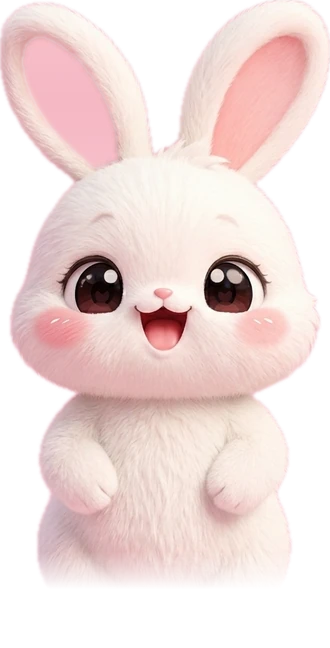
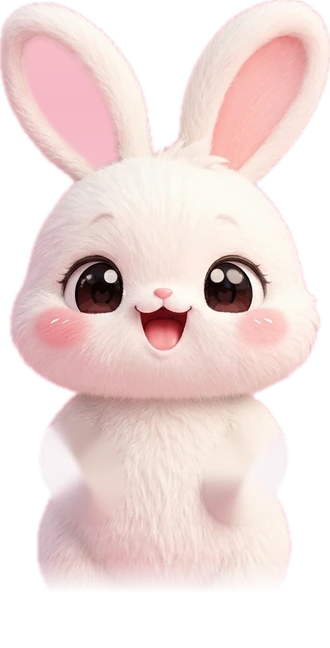
Zuffi walks like a real bunny: arms swing, feet step in turn, body waddles over the planted foot; calmer pace
Claude-Session: https://claude.ai/code/session_01Dfe3DJJKo39RQ8GJERCpN5

Changed region(s): [[0.1212, 0.6481, 0.3636, 0.8025], [0.6667, 0.7407, 0.7879, 0.8025], [0.6061, 0.7099, 0.6667, 0.7407]]

diff --git a/mac/Sources/App/ZuffiAvatar.swift b/mac/Sources/App/ZuffiAvatar.swift
@@ -109,7 +109,7 @@ final class ZuffiLook: ObservableObject {
 @MainActor
 final class ZuffiBodyArt {
     static let shared = ZuffiBodyArt()
-    let top: CGImage?, legL: CGImage?, legR: CGImage?, paw: CGImage?
+    let top: CGImage?, legL: CGImage?, legR: CGImage?, armL: CGImage?, armR: CGImage?, paw: CGImage?
     private init() {
         func load(_ n: String) -> CGImage? {
             guard let u = Bundle.main.resourceURL?.appendingPathComponent("web/mascots/\(n)"),
@@ -117,9 +117,10 @@ final class ZuffiBodyArt {
             return CGImageSourceCreateImageAtIndex(s, 0, nil)
         }
         top = load("zuffi-walk-top.webp"); legL = load("zuffi-walk-legL.webp"); legR = load("zuffi-walk-legR.webp")
+        armL = load("zuffi-walk-armL.webp"); armR = load("zuffi-walk-armR.webp")
         paw = load("zuffi-paw.webp")
     }
-    var available: Bool { top != nil && legL != nil && legR != nil }
+    var available: Bool { top != nil && legL != nil && legR != nil && armL != nil && armR != nil }
 }
 
 /// The face part of the avatar — the bunny frame, an emoji or a photo.
@@ -190,20 +191,30 @@ struct ZuffiWalker: View {
         let art = ZuffiBodyArt.shared
         let w = height * 330 / 648
         TimelineView(.animation(minimumInterval: 1 / 30, paused: !walking)) { tl in
-            let t = tl.date.timeIntervalSince(start) * 7.5 * speed
+            let t = tl.date.timeIntervalSince(start) * 4.4 * speed      // about 1.4 steps a second
             let s = walking ? sin(t) : 0
+            let px = w / 330                                              // art pixels → points
             Group {
                 if look.kind == .bunny, art.available {
                     ZStack {
-                        Image(decorative: art.legL!, scale: 1).resizable().interpolation(.high).offset(y: -max(0, s) * height * 0.03)
-                        Image(decorative: art.legR!, scale: 1).resizable().interpolation(.high).offset(y: -max(0, -s) * height * 0.03)
-                        Image(decorative: art.top!, scale: 1).resizable().interpolation(.high)
-                            .offset(y: -abs(s) * height * 0.018)
-                            .rotationEffect(.degrees(s * 2.2), anchor: .bottom)
+                        // legs: one foot lifts while the other carries the weight
+                        Image(decorative: art.legL!, scale: 1).resizable().interpolation(.high)
+                            .offset(x: -max(0, s) * 3 * px, y: -max(0, s) * height * 0.045)
+                        Image(decorative: art.legR!, scale: 1).resizable().interpolation(.high)
+                            .offset(x: max(0, -s) * 3 * px, y: -max(0, -s) * height * 0.045)
+                        // body + swinging arms, waddling over the planted foot
+                        ZStack {
+                            Image(decorative: art.top!, scale: 1).resizable().interpolation(.high)
+                            Image(decorative: art.armL!, scale: 1).resizable().interpolation(.high)
+                                .rotationEffect(.degrees(s * 16), anchor: UnitPoint(x: 0.194, y: 0.665))
+                            Image(decorative: art.armR!, scale: 1).resizable().interpolation(.high)
+                                .rotationEffect(.degrees(s * 16), anchor: UnitPoint(x: 0.806, y: 0.671))
+                        }
+                        .rotationEffect(.degrees(-s * 3.5), anchor: UnitPoint(x: 0.5, y: 0.85))
+                        .offset(x: s * 5 * px, y: -abs(s) * height * 0.012)
                     }
                     .frame(width: w, height: height)
                     .zuffiFur(look)
-                    .rotationEffect(.degrees(walking ? 3 : 0), anchor: .bottom)      // leans into the walk
                     .scaleEffect(x: facingLeft ? -1 : 1, y: 1)
                 } else {
                     // emoji / photo: little hops instead of steps

diff --git a/mac/Sources/App/ZuffiWalk.swift b/mac/Sources/App/ZuffiWalk.swift
@@ -71,9 +71,10 @@ final class ZuffiWalk {
         m.sprite.walkLeft = false
         m.walking = true
         SoundEngine.shared.play("greet")
+        let inDist = (vf.midX - size.width / 2) - (vf.minX - size.width)
         NSAnimationContext.runAnimationGroup({ ctx in
-            ctx.duration = 3.0
-            ctx.timingFunction = CAMediaTimingFunction(name: .easeOut)
+            ctx.duration = max(4, min(11, Double(inDist) / 95))        // a calm bunny stroll, not a dash
+            ctx.timingFunction = CAMediaTimingFunction(name: .linear)
             p.animator().setFrame(NSRect(x: vf.midX - size.width / 2, y: y, width: size.width, height: size.height), display: true)
         }, completionHandler: {
             MainActor.assumeIsolated {
@@ -125,8 +126,8 @@ final class ZuffiWalk {
         model.sprite.walkLeft = false
         model.walking = true
         NSAnimationContext.runAnimationGroup({ ctx in
-            ctx.duration = 2.6
-            ctx.timingFunction = CAMediaTimingFunction(name: .easeIn)
+            ctx.duration = max(4, min(11, Double(vf.maxX + 10 - p.frame.minX) / 95))
+            ctx.timingFunction = CAMediaTimingFunction(name: .linear)
             p.animator().setFrame(NSRect(x: vf.maxX + 10, y: p.frame.minY, width: size.width, height: size.height), display: true)
         }, completionHandler: {
             MainActor.assumeIsolated {

diff --git a/mac/Sources/App/Companion.swift b/mac/Sources/App/Companion.swift
@@ -133,7 +133,7 @@ final class PetController {
         model.walkLeft = target.minX < p.frame.minX
         model.walking = true
         NSAnimationContext.runAnimationGroup({ ctx in
-            ctx.duration = max(0.8, min(6, Double(dist) / 190))
+            ctx.duration = max(1.5, min(12, Double(dist) / 90))
             ctx.timingFunction = CAMediaTimingFunction(name: .linear)
             p.animator().setFrame(target, display: true)
         }, completionHandler: {
